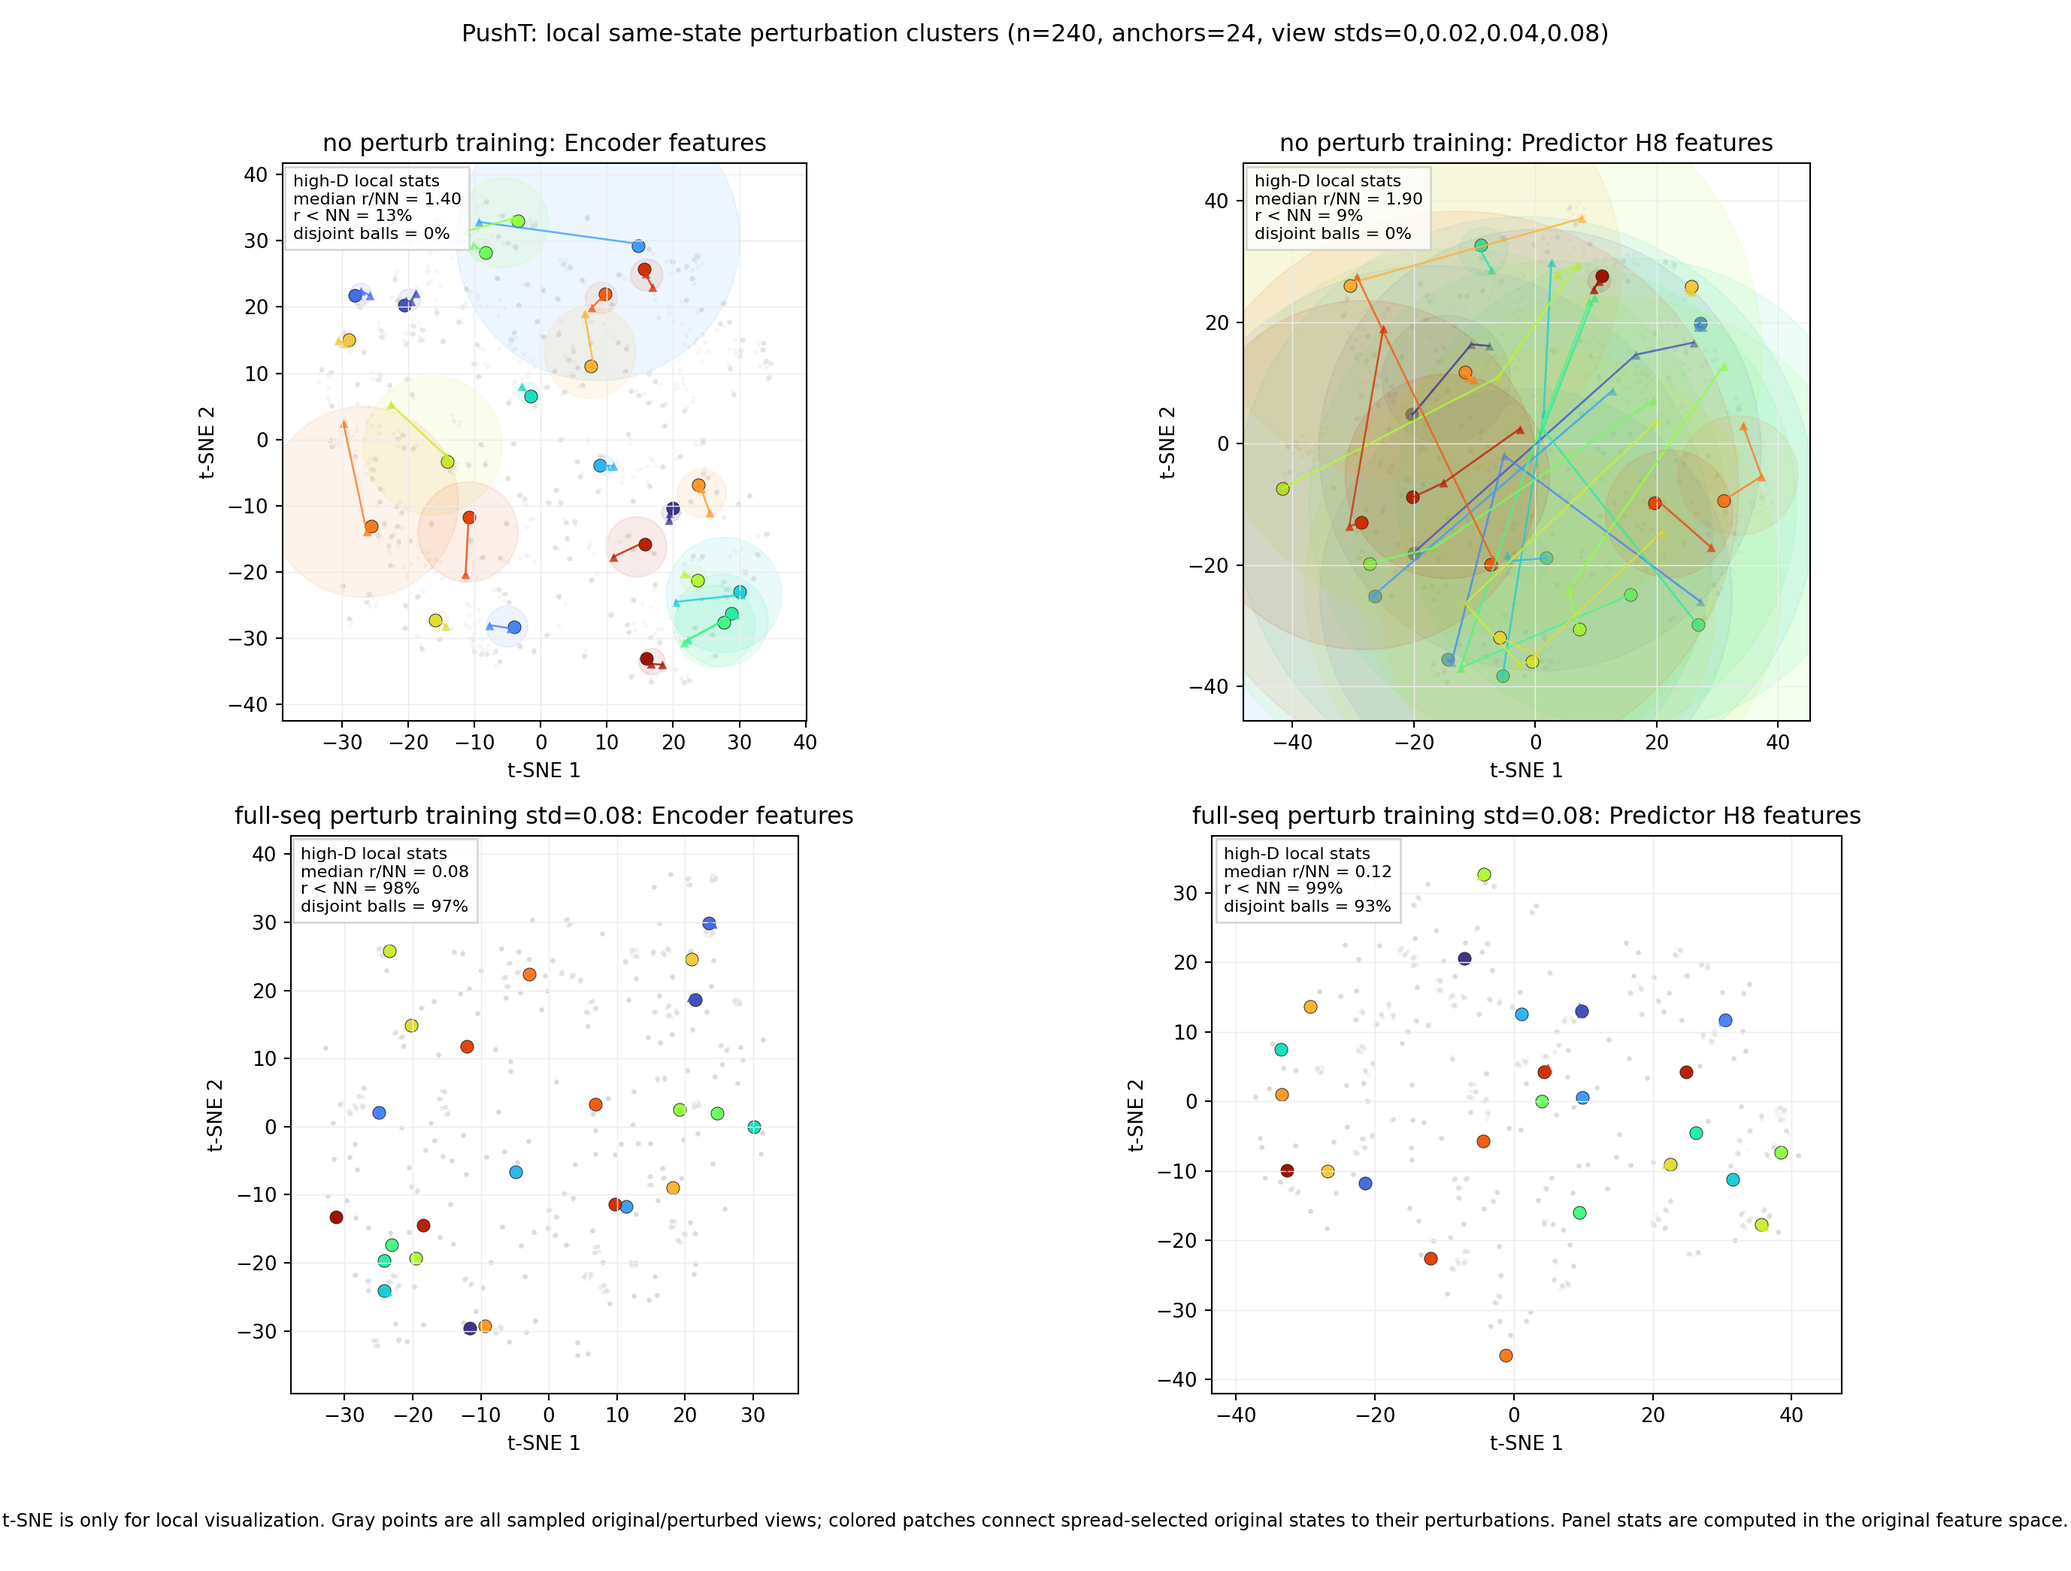
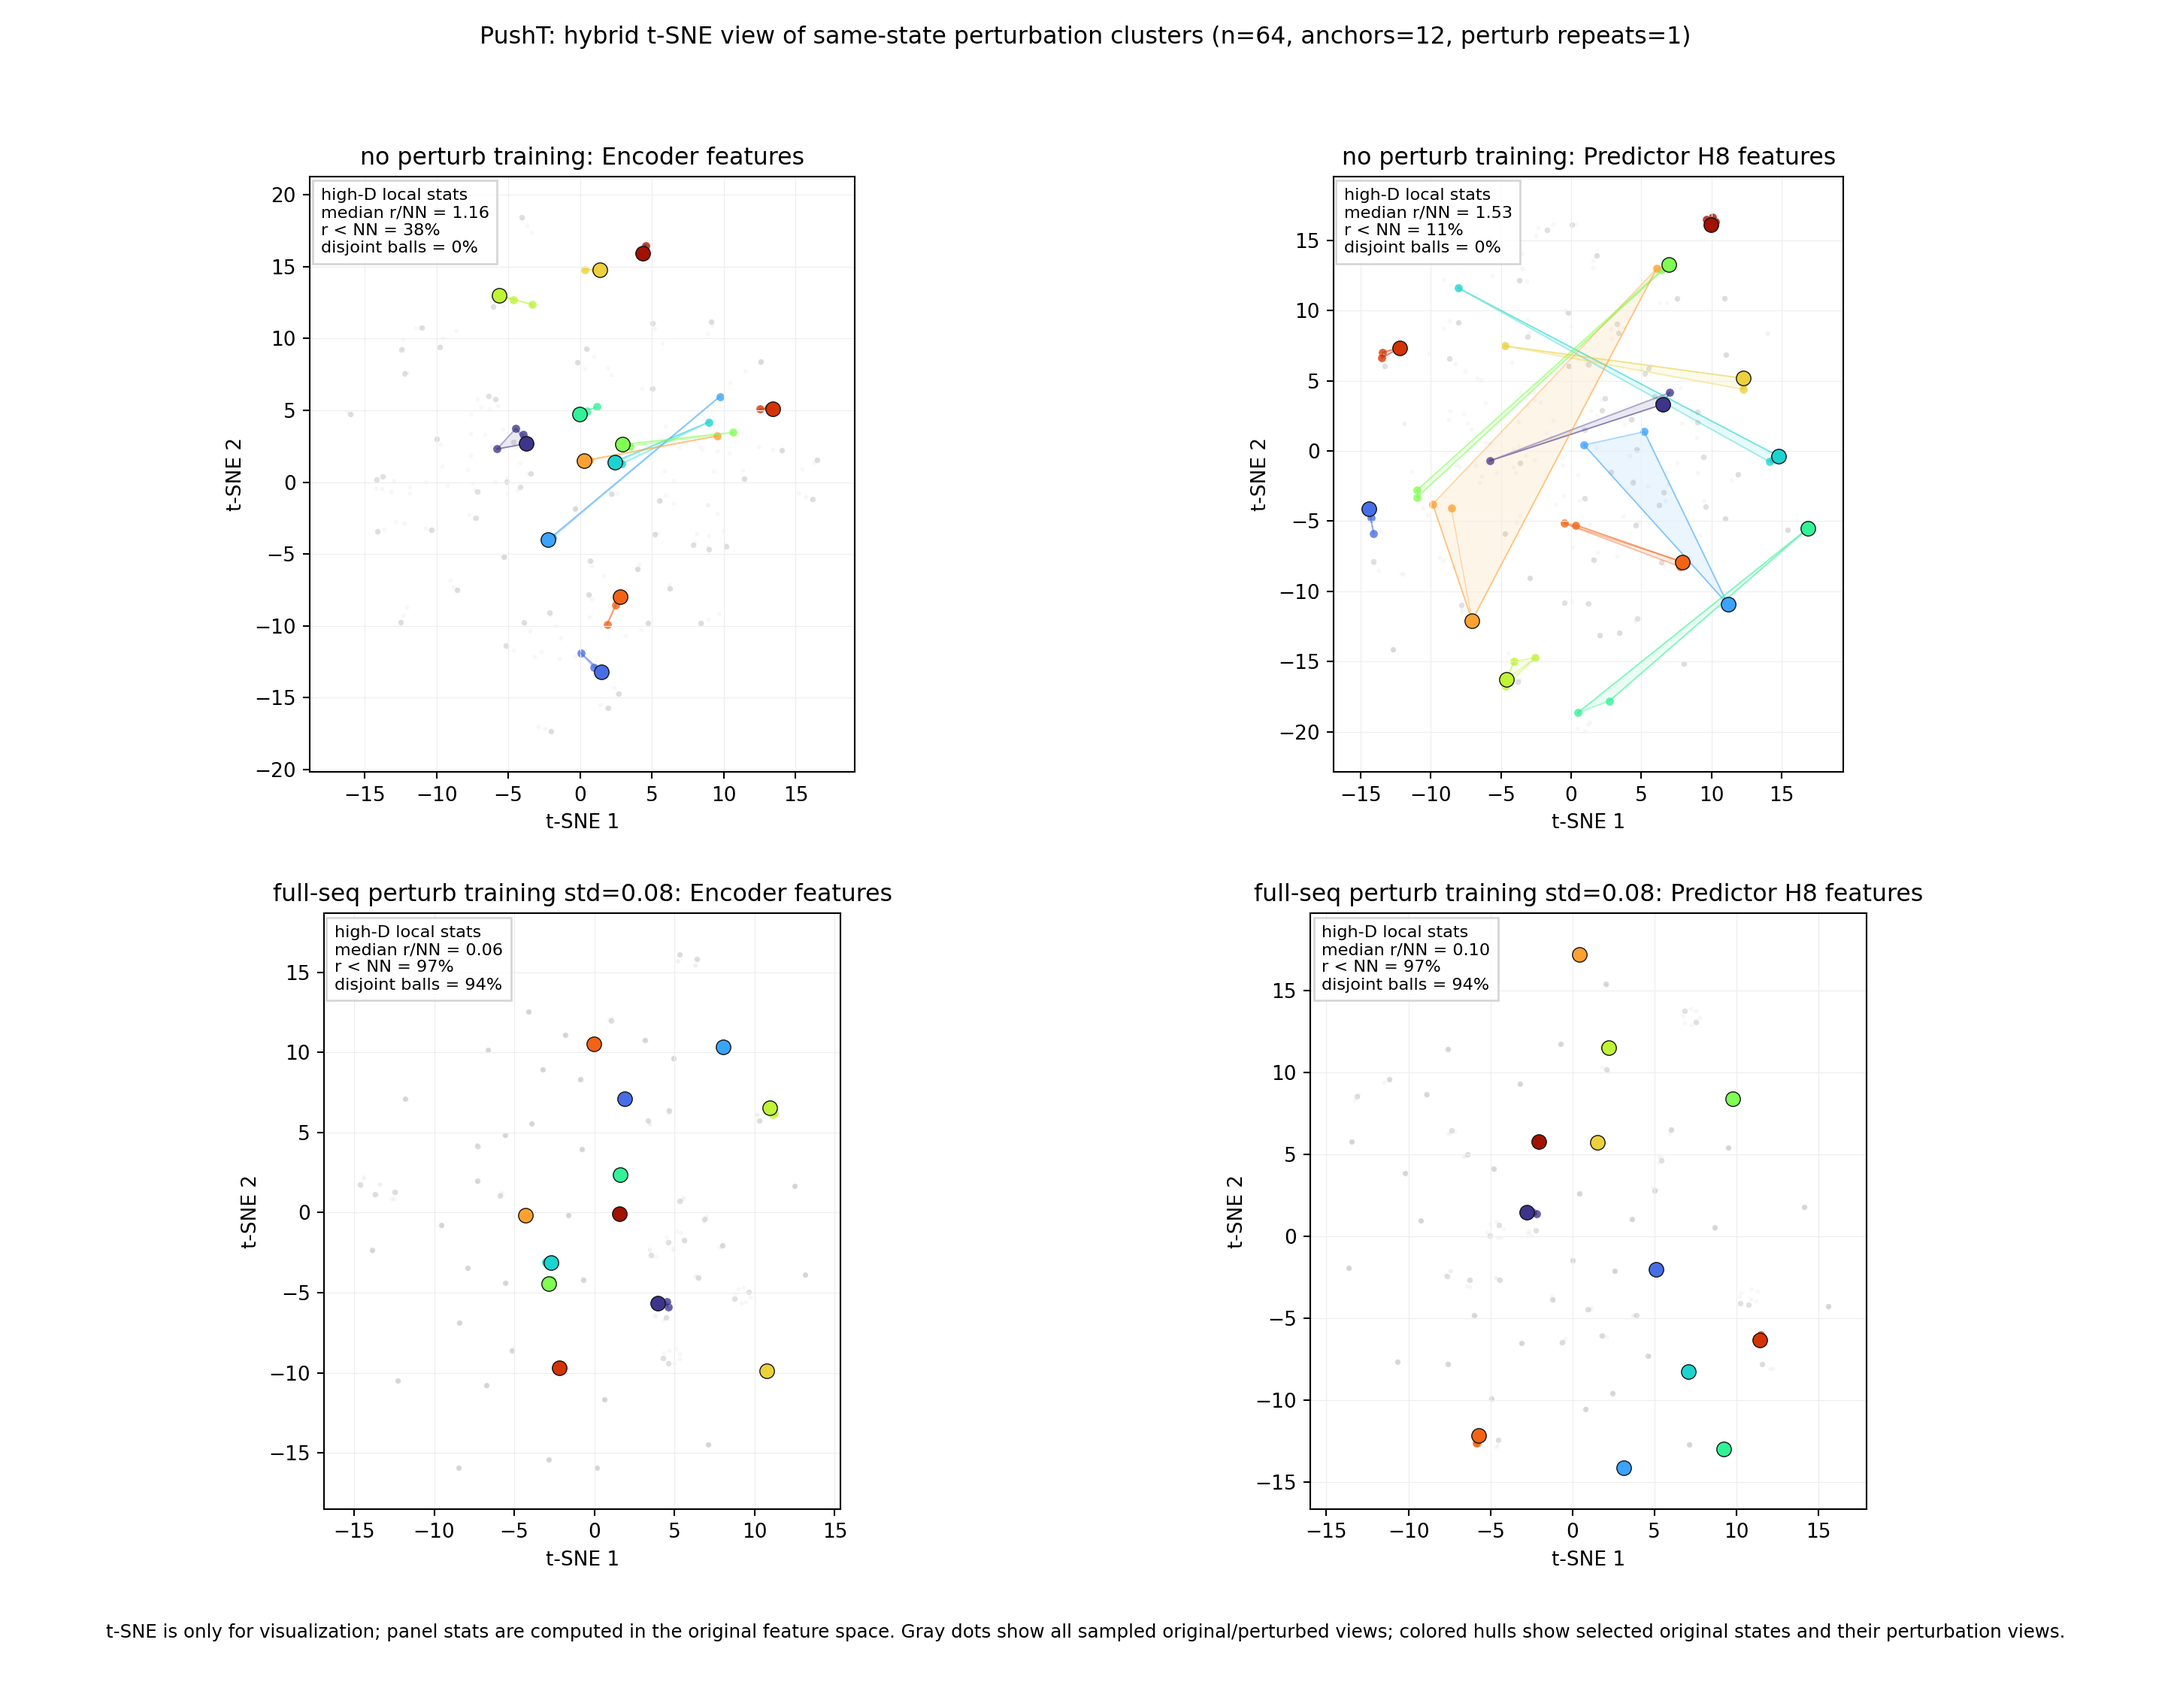
paper1: refine PushT hybrid t-SNE clusters
- draw same-state perturbation views with compact colored hulls

- keep high-dimensional local stats in the visualization panels

- expose perturb-repeat control for cluster plotting

diff --git a/tools/paper1_selective_contraction.py b/tools/paper1_selective_contraction.py
@@ -400,6 +400,30 @@ def _axis_limits(arrays: Sequence[np.ndarray]) -> tuple[tuple[float, float], tup
     return limits[0], limits[1], limits[2]
 
 
+def _convex_hull_2d(points: np.ndarray) -> np.ndarray:
+    """Return hull vertices for small 2D point sets using Andrew's monotone chain."""
+    unique = np.unique(np.asarray(points, dtype=np.float64), axis=0)
+    if len(unique) <= 2:
+        return unique
+    order = np.lexsort((unique[:, 1], unique[:, 0]))
+    pts = unique[order]
+
+    def cross(o: np.ndarray, a: np.ndarray, b: np.ndarray) -> float:
+        return float((a[0] - o[0]) * (b[1] - o[1]) - (a[1] - o[1]) * (b[0] - o[0]))
+
+    lower: list[np.ndarray] = []
+    for p in pts:
+        while len(lower) >= 2 and cross(lower[-2], lower[-1], p) <= 0:
+            lower.pop()
+        lower.append(p)
+    upper: list[np.ndarray] = []
+    for p in pts[::-1]:
+        while len(upper) >= 2 and cross(upper[-2], upper[-1], p) <= 0:
+            upper.pop()
+        upper.append(p)
+    return np.asarray(lower[:-1] + upper[:-1])
+
+
 def _pca_reduce_for_embedding(points: np.ndarray, max_dim: int = 50) -> np.ndarray:
     centered = points - points.mean(axis=0, keepdims=True)
     if centered.shape[1] <= max_dim or centered.shape[0] <= max_dim:
@@ -474,6 +498,23 @@ def _cluster_isolation_stats(array: np.ndarray) -> dict[str, float]:
         "median_radius": float(np.nanmedian(radius)),
         "median_nearest_origin": float(np.nanmedian(nearest_origin)),
     }
+
+
+def _expanded_view_stds(view_stds: Sequence[float], perturb_repeats: int) -> list[float]:
+    out = []
+    repeats = max(1, int(perturb_repeats))
+    saw_origin = False
+    for std in view_stds:
+        value = float(std)
+        if value == 0.0:
+            if not saw_origin:
+                out.append(0.0)
+                saw_origin = True
+            continue
+        out.extend([value] * repeats)
+    if not saw_origin:
+        out.insert(0, 0.0)
+    return out
 
 
 def _local_cluster_projection(
@@ -868,14 +909,16 @@ def render_cluster_task(
     anchor_count: int,
     perplexity: float,
     tsne_max_iter: int,
+    perturb_repeats: int,
 ) -> Path:
     plt = _ensure_plot_deps()
+    cluster_view_stds = _expanded_view_stds(view_stds, perturb_repeats)
     encoded, specs = _load_task_features(
         task=task,
         summary=summary,
         acpc_basin_path=acpc_basin_path,
         n_sequences=n_sequences,
-        view_stds=view_stds,
+        view_stds=cluster_view_stds,
         rollout_horizon=rollout_horizon,
         seed=seed,
         device=device,
@@ -894,7 +937,7 @@ def render_cluster_task(
         "predictor": "Predictor H8 features",
     }
 
-    fig, axes = plt.subplots(2, 2, figsize=(14.5, 11.0))
+    fig, axes = plt.subplots(2, 2, figsize=(15.2, 11.8))
     panels = [
         ("base", "encoder"),
         ("base", "predictor"),
@@ -914,40 +957,64 @@ def render_cluster_task(
         perturbed = projected[1:]
         xlim, ylim = _axis_limits_2d_single(projected)
 
-        ax.scatter(origin[:, 0], origin[:, 1], s=7, c="#A7A7A7", alpha=0.24, linewidths=0)
+        ax.scatter(origin[:, 0], origin[:, 1], s=8, c="#7F7F7F", alpha=0.24, linewidths=0)
         ax.scatter(
             perturbed.reshape(-1, 2)[:, 0],
             perturbed.reshape(-1, 2)[:, 1],
             s=5,
-            c="#C9C9C9",
-            alpha=0.16,
+            c="#BFBFBF",
+            alpha=0.11,
             linewidths=0,
         )
 
         for ci, state_idx in enumerate(anchors):
             color = colors[ci % len(colors)]
             pts = projected[:, state_idx, :]
-            center = pts.mean(axis=0)
-            radius_2d = max(float(np.linalg.norm(pts - center[None, :], axis=-1).max()), 1e-6)
-            circle = plt.Circle(
-                center,
-                radius_2d * 1.18,
-                facecolor=color,
-                edgecolor=color,
-                alpha=0.09,
-                linewidth=0.8,
+            hull = _convex_hull_2d(pts)
+            if len(hull) >= 3:
+                ax.fill(hull[:, 0], hull[:, 1], color=color, alpha=0.105, linewidth=0)
+                ax.plot(
+                    np.r_[hull[:, 0], hull[0, 0]],
+                    np.r_[hull[:, 1], hull[0, 1]],
+                    color=color,
+                    alpha=0.38,
+                    linewidth=0.75,
+                )
+            for p in pts[1:]:
+                ax.plot(
+                    [pts[0, 0], p[0]],
+                    [pts[0, 1], p[1]],
+                    color=color,
+                    alpha=0.38,
+                    linewidth=0.55,
+                )
+            ax.scatter(
+                pts[1:, 0],
+                pts[1:, 1],
+                s=18,
+                color=color,
+                marker="o",
+                alpha=0.78,
+                edgecolor="white",
+                linewidth=0.18,
             )
-            ax.add_patch(circle)
-            ax.plot(pts[:, 0], pts[:, 1], color=color, alpha=0.78, linewidth=1.0)
-            ax.scatter(pts[0, 0], pts[0, 1], s=42, color=color, marker="o", edgecolor="#222222", linewidth=0.35)
-            ax.scatter(pts[1:, 0], pts[1:, 1], s=20, color=color, marker="^", alpha=0.78, linewidth=0)
+            ax.scatter(
+                pts[0, 0],
+                pts[0, 1],
+                s=54,
+                color=color,
+                marker="o",
+                edgecolor="#111111",
+                linewidth=0.52,
+                zorder=4,
+            )
 
         ax.set_title(f"{label_by_spec[label]}: {feature_by_name[feature]}")
         ax.set_xlim(*xlim)
         ax.set_ylim(*ylim)
         ax.set_xlabel("t-SNE 1")
         ax.set_ylabel("t-SNE 2")
-        ax.grid(True, color="#ECECEC", linewidth=0.55)
+        ax.grid(True, color="#EEEEEE", linewidth=0.45)
         ax.set_aspect("equal", adjustable="box")
         ax.text(
             0.02,
@@ -964,21 +1031,21 @@ def render_cluster_task(
         )
 
     fig.suptitle(
-        f"{task}: local same-state perturbation clusters "
-        f"(n={n_sequences}, anchors={len(anchors)}, view stds={','.join(f'{s:g}' for s in view_stds)})",
+        f"{task}: hybrid t-SNE view of same-state perturbation clusters "
+        f"(n={n_sequences}, anchors={len(anchors)}, perturb repeats={max(1, int(perturb_repeats))})",
         y=0.985,
     )
     fig.text(
         0.5,
         0.026,
-        "t-SNE is only for local visualization; panel stats are computed in the original feature space.\n"
-        "Gray points are all sampled original/perturbed views; colored patches connect spread-selected "
-        "original states to their perturbations.",
+        "t-SNE is only for visualization; panel stats are computed in the original feature space. "
+        "Gray dots show all sampled original/perturbed views; colored hulls show selected original states "
+        "and their perturbation views.",
         ha="center",
         va="bottom",
         fontsize=9.3,
     )
-    fig.tight_layout(rect=(0, 0.06, 1, 0.96))
+    fig.tight_layout(rect=(0, 0.055, 1, 0.955), h_pad=2.4, w_pad=1.4)
     out_dir.mkdir(parents=True, exist_ok=True)
     out = out_dir / f"{task.lower()}_fullseq_selective_contraction_clusters.png"
     fig.savefig(out, dpi=190)
@@ -1150,6 +1217,7 @@ def build_parser() -> argparse.ArgumentParser:
     p.add_argument("--cluster-anchor-count", type=int, default=24)
     p.add_argument("--cluster-perplexity", type=float, default=35.0)
     p.add_argument("--cluster-tsne-max-iter", type=int, default=650)
+    p.add_argument("--cluster-perturb-repeats", type=int, default=1)
     p.add_argument("--atlas-anchor-count", type=int, default=24)
     p.add_argument("--atlas-neighbor-count", type=int, default=8)
     return p
@@ -1221,6 +1289,7 @@ def main() -> None:
                 anchor_count=args.cluster_anchor_count,
                 perplexity=args.cluster_perplexity,
                 tsne_max_iter=args.cluster_tsne_max_iter,
+                perturb_repeats=args.cluster_perturb_repeats,
             )
             print(f"[selective-contraction] wrote {out}")
 
